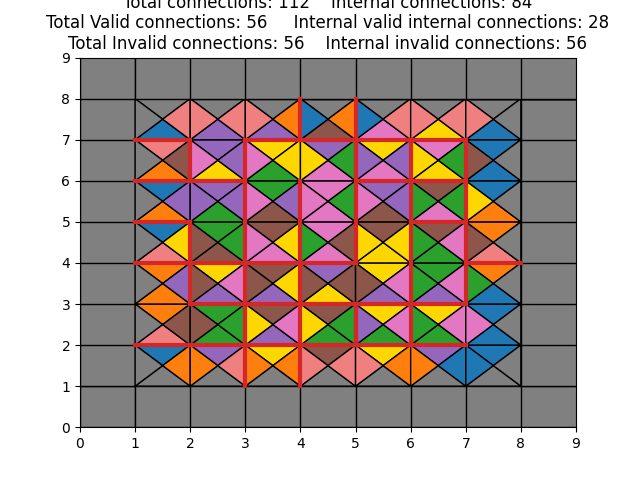
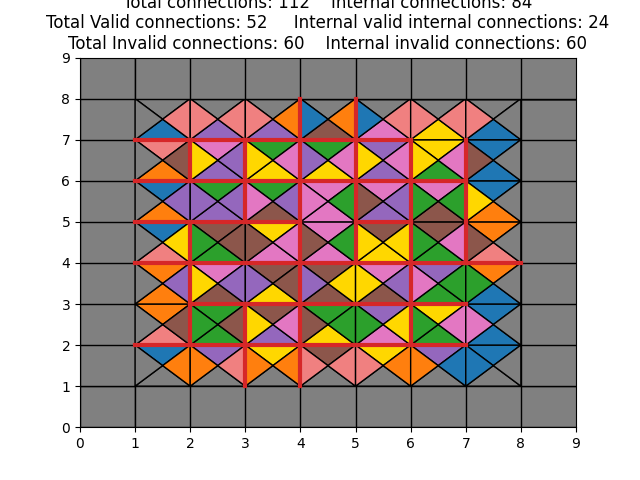
Adding a local swap function

diff --git a/Projet/code/solver_lns.py b/Projet/code/solver_lns.py
@@ -8,6 +8,8 @@ from copy import deepcopy
 import time
 from tqdm import tqdm
 
+BLACK = 23
+
 def solve_lns(e: EternityPuzzle):
     """
     Large neighborhood search
@@ -55,13 +57,16 @@ def lns(e: EternityPuzzle, solution, search_time=30):
 
             new_solution = rebuild(*destroy(e, solution))
 
-            if nb_confllict_new_sol := (e.get_total_n_conflict(new_solution)) < e.get_total_n_conflict(solution):
+            if (nb_confllict_new_sol := e.get_total_n_conflict(new_solution)) < e.get_total_n_conflict(solution):
                 solution = new_solution
+                print(nb_confllict_new_sol)
                 if nb_confllict_new_sol < n_conflit_best_solution:
                     best_solution = deepcopy(new_solution)
                     n_conflit_best_solution = nb_confllict_new_sol
 
-            if (tac := time()) - start_time < search_time:
+            time.sleep(1)
+
+            if (tac := time.time()) - start_time < search_time:
                 progress_bar.update(tac - tic)
                 tic = tac
             else:
@@ -70,20 +75,79 @@ def lns(e: EternityPuzzle, solution, search_time=30):
     return best_solution, n_conflit_best_solution
 
 
-def destroy(e: EternityPuzzle, solution):
+def destroy(e: EternityPuzzle, solution, neighborhood_size=4):
+    visualize(e, solution, "debug/before_destruction")
+
     solution = deepcopy(solution) # To make sure we are not affecting the input solution
-    print(solution)
-    visualize(e, solution, "debouging")
-    print(get_conflict_positions(e, solution))
-    # Remove pieces 
+
+    # Remove k pieces with the most conflict
+    conflict_position, nb_conflict = get_conflict_positions(e, solution, return_nb_conflict=True)
+    pieces_with_most_conflict = sorted([(idx, nb_conflict[idx]) for idx in nb_conflict.keys()], key= lambda x: -x[1])
+    removed_pieces_idx = [pieces_with_most_conflict.pop(0)[0] for _ in range(neighborhood_size)]
+    
+    removed_pieces = []
+    for idx in removed_pieces_idx:
+        removed_pieces.append(solution[idx])
+        solution[idx] = (BLACK, BLACK, BLACK, BLACK)
+
+    return e, solution, removed_pieces, removed_pieces_idx
 
 
-    return e, solution
+
+def rebuild(e: EternityPuzzle, destroyed_solution, removed_pieces, removed_pieces_idx):
+    # Realidxated removed pieces optimally to the holes
+    visualize(e, destroyed_solution, "debug/rebuilding")
+
+    for _ in range(len(removed_pieces_idx)):
+
+        k = random.choice([i for i in range(len(removed_pieces_idx))])
+        idx_to_fill = removed_pieces_idx[k]
+        del removed_pieces_idx[k]
+
+        # Find piece that have the best fit
+        idx_of_piece_use_to_fill_hole, piece_to_fill_hole, min_number_of_conflit = -1, None, 5
+        for i, piece in enumerate(removed_pieces):
+            best_fit, number_of_conflit = find_best_fit(e, destroyed_solution, idx_to_fill, piece)
+            if number_of_conflit < min_number_of_conflit:
+                idx_of_piece_use_to_fill_hole, piece_to_fill_hole, min_number_of_conflit = i, best_fit, number_of_conflit
+        del removed_pieces[idx_of_piece_use_to_fill_hole]
+
+        # Fill the hole
+        destroyed_solution[idx_to_fill] = piece_to_fill_hole
+    visualize(e, destroyed_solution, "debug/rebuild")
+
+    return destroyed_solution
 
 
 
-def rebuild(e: EternityPuzzle, destroyed_solution):
-    # Reallocated removed pieces optimally to the holes
+
+def find_best_fit(e: EternityPuzzle, solution, idx, piece):
+    
+    piece_best_fit = sorted([(rotated_piece, get_number_conflict(e, solution, idx, rotated_piece)) for rotated_piece in e.generate_rotation(piece)], key=lambda x: x[1])
+
+    return piece_best_fit[0]
 
 
-    raise NotImplementedError()
+
+def get_number_conflict(e: EternityPuzzle, solution, idx, piece):
+    """ Swipe with side not supported """
+
+    i , j = idx % e.board_size, idx // e.board_size
+    idx_south =  e.board_size * (j - 1) + i
+    idx_north =  e.board_size * (j + 1) + i
+    idx_east =   e.board_size * j + (i - 1)
+    idx_west =   e.board_size * j + (i + 1)
+
+    nb_conflict = 0
+
+    if piece[WEST]  != solution[idx_west][EAST]:
+        nb_conflict += 1
+    if piece[NORTH] != solution[idx_north][SOUTH]:
+        nb_conflict += 1
+    if piece[EAST]  != solution[idx_east][WEST]:
+        nb_conflict += 1
+    if piece[SOUTH] != solution[idx_south][NORTH]:
+        nb_conflict += 1
+
+    return nb_conflict
+

diff --git a/Projet/code/utils/utils.py b/Projet/code/utils/utils.py
@@ -2,7 +2,7 @@ from eternity_puzzle import EternityPuzzle
 import random
 import numpy as np
 from copy import deepcopy
-
+from matplotlib import pyplot
 
 GRAY = 0
 BLACK = 23
@@ -18,6 +18,7 @@ EAST = 3
 # Save a visualisation
 def visualize(e: EternityPuzzle, solution, name="visualisation"):
     e.display_solution(solution, name)
+    pyplot.close() # Free memory if a lot of write visualize is done
 
 
 def piece_type(piece):
@@ -26,8 +27,10 @@ def piece_type(piece):
 
 
 # Return a list of the positions of the pieces in conflict
-def get_conflict_positions(e, solution):
+def get_conflict_positions(e, solution, return_nb_conflict=False):
     positions = []
+
+    n_conflit = {i: 0 for i in range(e.board_size * e.board_size)}
 
     for j in range(e.board_size):
         for i in range(e.board_size):
@@ -37,25 +40,37 @@ def get_conflict_positions(e, solution):
 
             if i > 0 and solution[k][WEST] != solution[k_east][EAST]:
                 positions.append(k)
+                n_conflit[k] += 1
                 positions.append(k_east)
+                n_conflit[k_east] += 1
 
             if i == 0 and solution[k][WEST] != GRAY:
                 positions.append(k)
+                n_conflit[k] += 1
 
             if i == e.board_size - 1 and solution[k][EAST] != GRAY:
                 positions.append(k)
+                n_conflit[k] += 1
 
             if j > 0 and solution[k][SOUTH] != solution[k_south][NORTH]:
                 positions.append(k)
+                n_conflit[k] += 1
                 positions.append(k_south)
+                n_conflit[k_south] += 1
 
             if j == 0 and solution[k][SOUTH] != GRAY:
                 positions.append(k)
+                n_conflit[k] += 1
 
             if j == e.board_size - 1 and solution[k][NORTH] != GRAY:
                 positions.append(k)
+                n_conflit[k] += 1
 
     positions = list(set(positions))
+    
+    if return_nb_conflict:
+        return positions, n_conflit
+
     return positions
 
 
